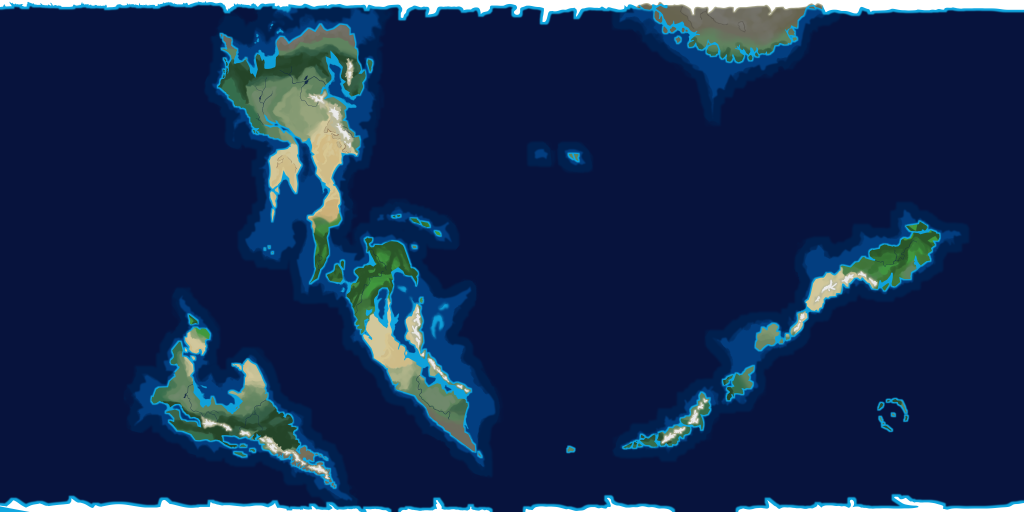
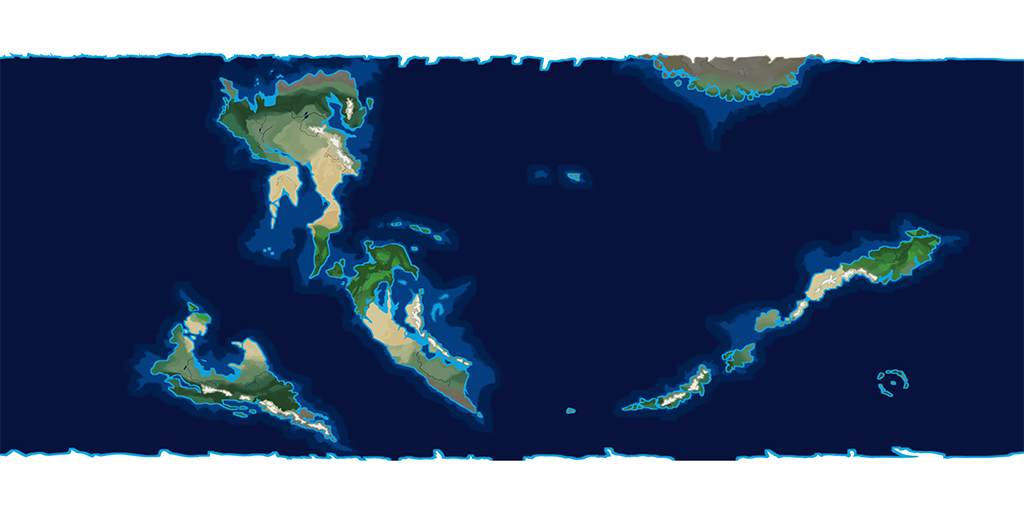
updating planet textures and readme

diff --git a/README.md b/README.md
@@ -22,4 +22,6 @@ C H E E K I B R E E K I#4004 for proofreading
 
 firebombpng#2396 for the Eusan Nation flag
 
+Vineta Planetary Textures by Mallow/Akula Akura
+
 StrixBerseria and Swiftnicity#7031 for the Eusan Nation crests

diff --git a/bin/README.md b/bin/README.md
@@ -22,4 +22,6 @@ C H E E K I B R E E K I#4004 for proofreading
 
 firebombpng#2396 for the Eusan Nation flag
 
+Vineta Planetary Textures by Mallow/Akula Akura
+
 StrixBerseria and Swiftnicity#7031 for the Eusan Nation crests